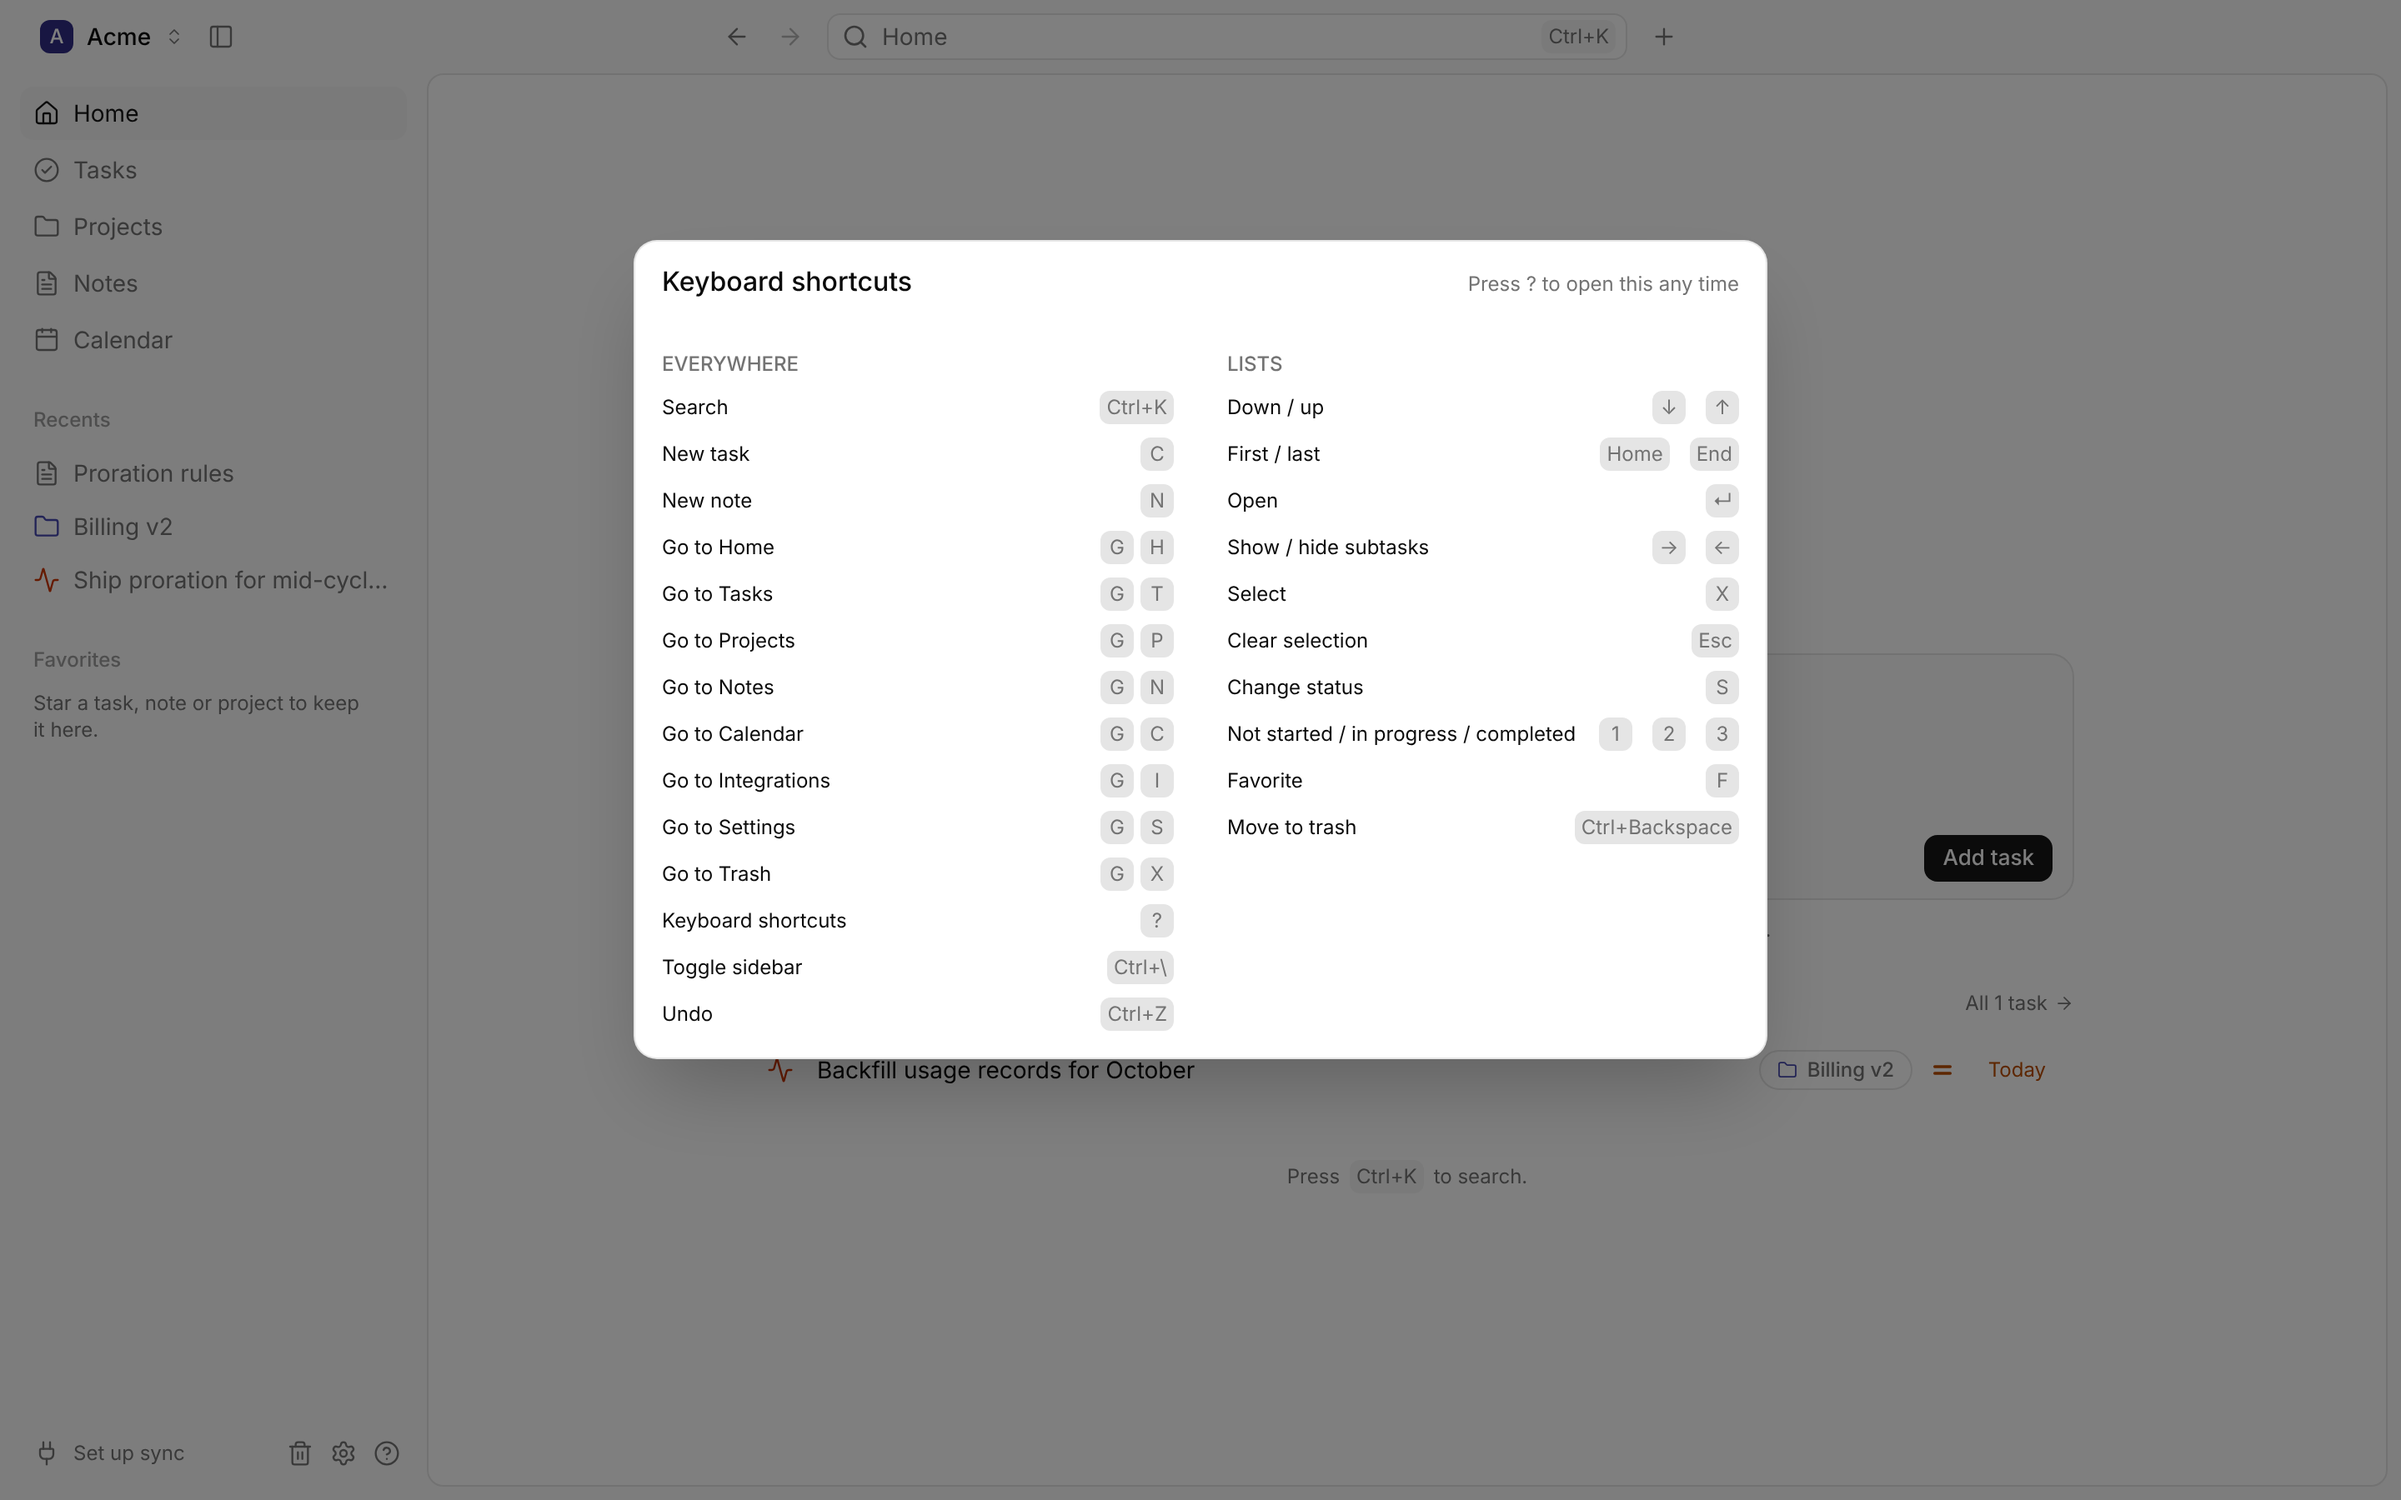
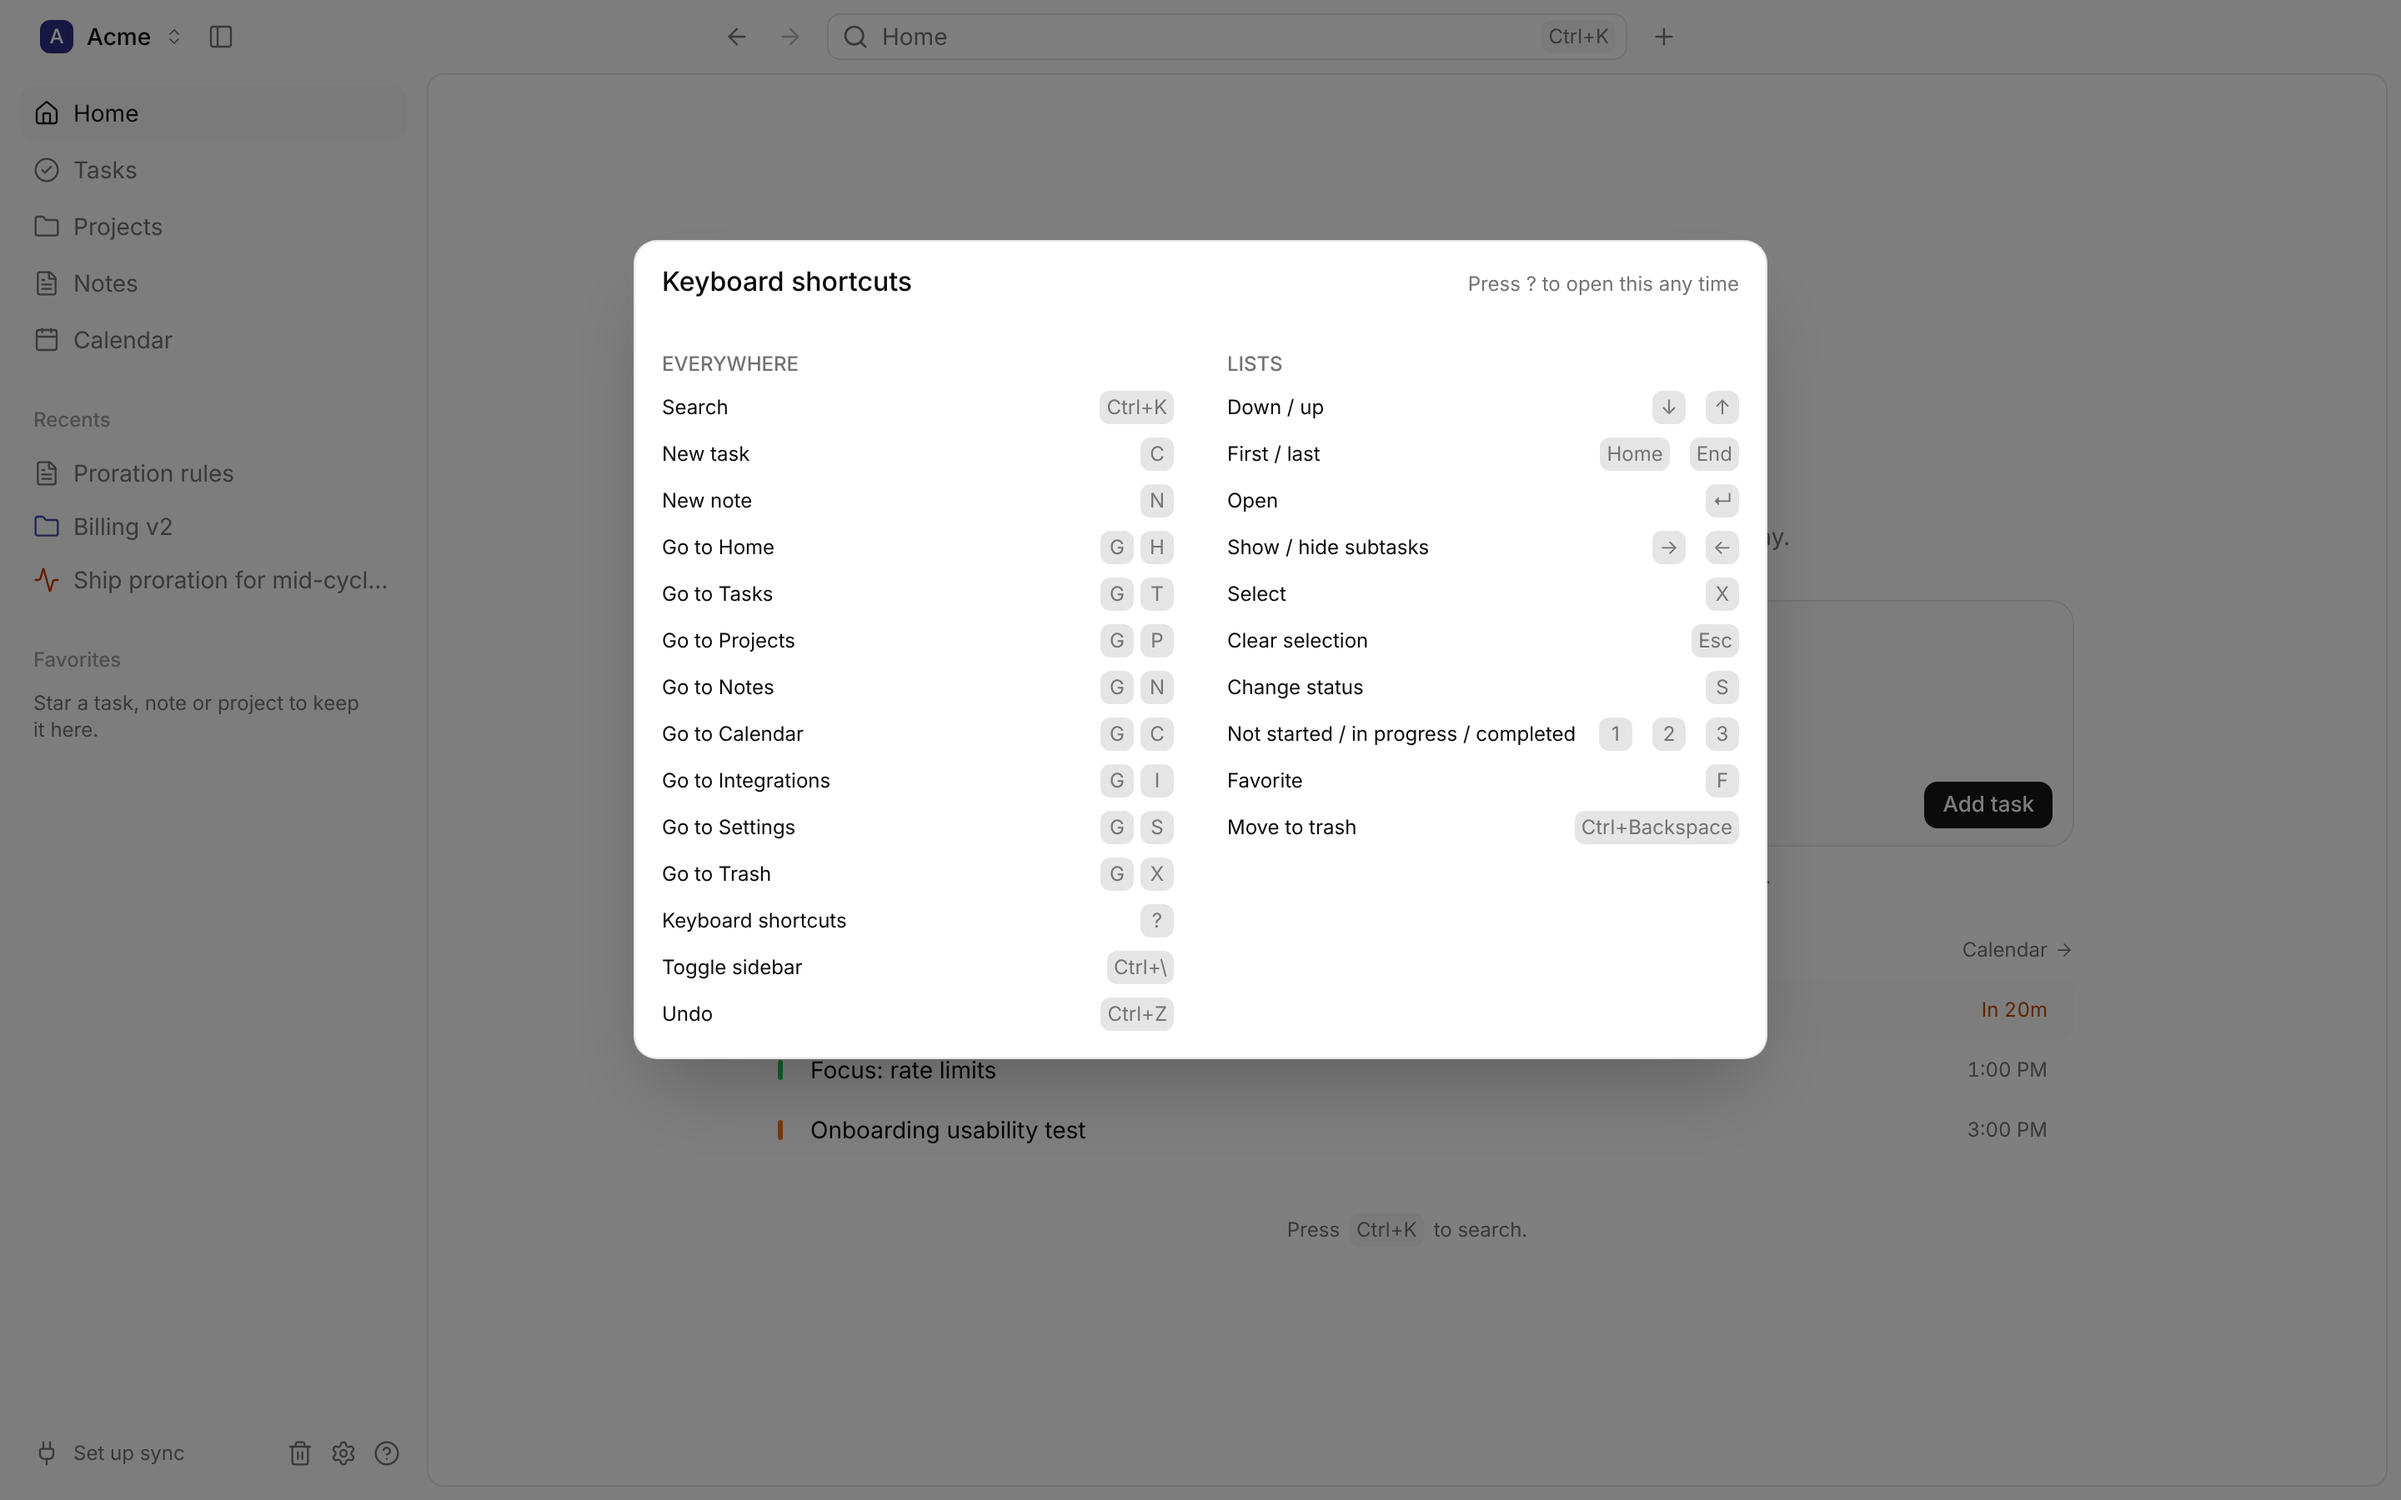
Take the screenshots again over main, and match the docs to the site's voice
The showcase workspace's links, and the docs' pages, on top of main's
pinned clock and fuller showcase data; the introduction in the site's
words, the data page pointing to the privacy policy, and CLAUDE.md's list
of what the screenshots show.

Claude-Session: https://claude.ai/code/session_01P34MGaHUisk7tu1ubGdrE4

diff --git a/CLAUDE.md b/CLAUDE.md
@@ -256,8 +256,8 @@ The site describes the app, so a change users can see lands with its website cha
 pull request**, as a design change lands with its stories and guide. Before finishing an app change,
 go through this list:
 
-- **UI on a page the screenshots show** (`PAGES` in `e2e/screenshots/website.screens.ts`: the task
-  list and board, a project's overview, a note, the calendar's week and agenda): run
+- **UI on a page the screenshots show** (`PAGES` in `e2e/screenshots/website.screens.ts`: the pages
+  the home page and the docs show, from Home and the task list to search, settings and integrations): run
   `npm run website:screenshots`, look at the new captures and commit them. Check that the home page's
   close-ups (`crop` in `website/src/pages/index.astro`) still frame what their text describes, and
   move a crop that doesn't. If the change needs data the showcase workspace lacks, or makes it look

diff --git a/website/src/content/docs/docs/index.md b/website/src/content/docs/docs/index.md
@@ -3,8 +3,9 @@ title: Introduction
 description: What DevBrain is, how it works, and where to start.
 ---
 
-DevBrain is a desktop app for planning a developer's work. Your **tasks**, **projects**, **notes**
-and **calendar** live in one window, linked to each other. Your **Linear** issues and **Google
+DevBrain is a local-first, personal second brain for developers: a desktop app that gives you a
+clear picture of what you're working on and when. Your **tasks**, **projects**, **notes** and
+**calendar** live in one window, linked to each other. Your **Linear** issues and **Google
 Calendar** events appear beside them.
 
 ## How it works

diff --git a/website/src/content/docs/docs/data-and-privacy.md b/website/src/content/docs/docs/data-and-privacy.md
@@ -3,6 +3,9 @@ title: Data and privacy
 description: Where DevBrain keeps your data, what goes over the network, how sign-ins are protected, and how to back up.
 ---
 
+This page explains how DevBrain handles your data in practice; the
+[privacy policy](/privacy/) is the formal statement.
+
 DevBrain is **local first**: your work is stored on your computer, in files you can see, copy and
 back up, and the app works the same with or without the internet. There's no DevBrain account, no
 DevBrain server, and nothing to sign up for.
